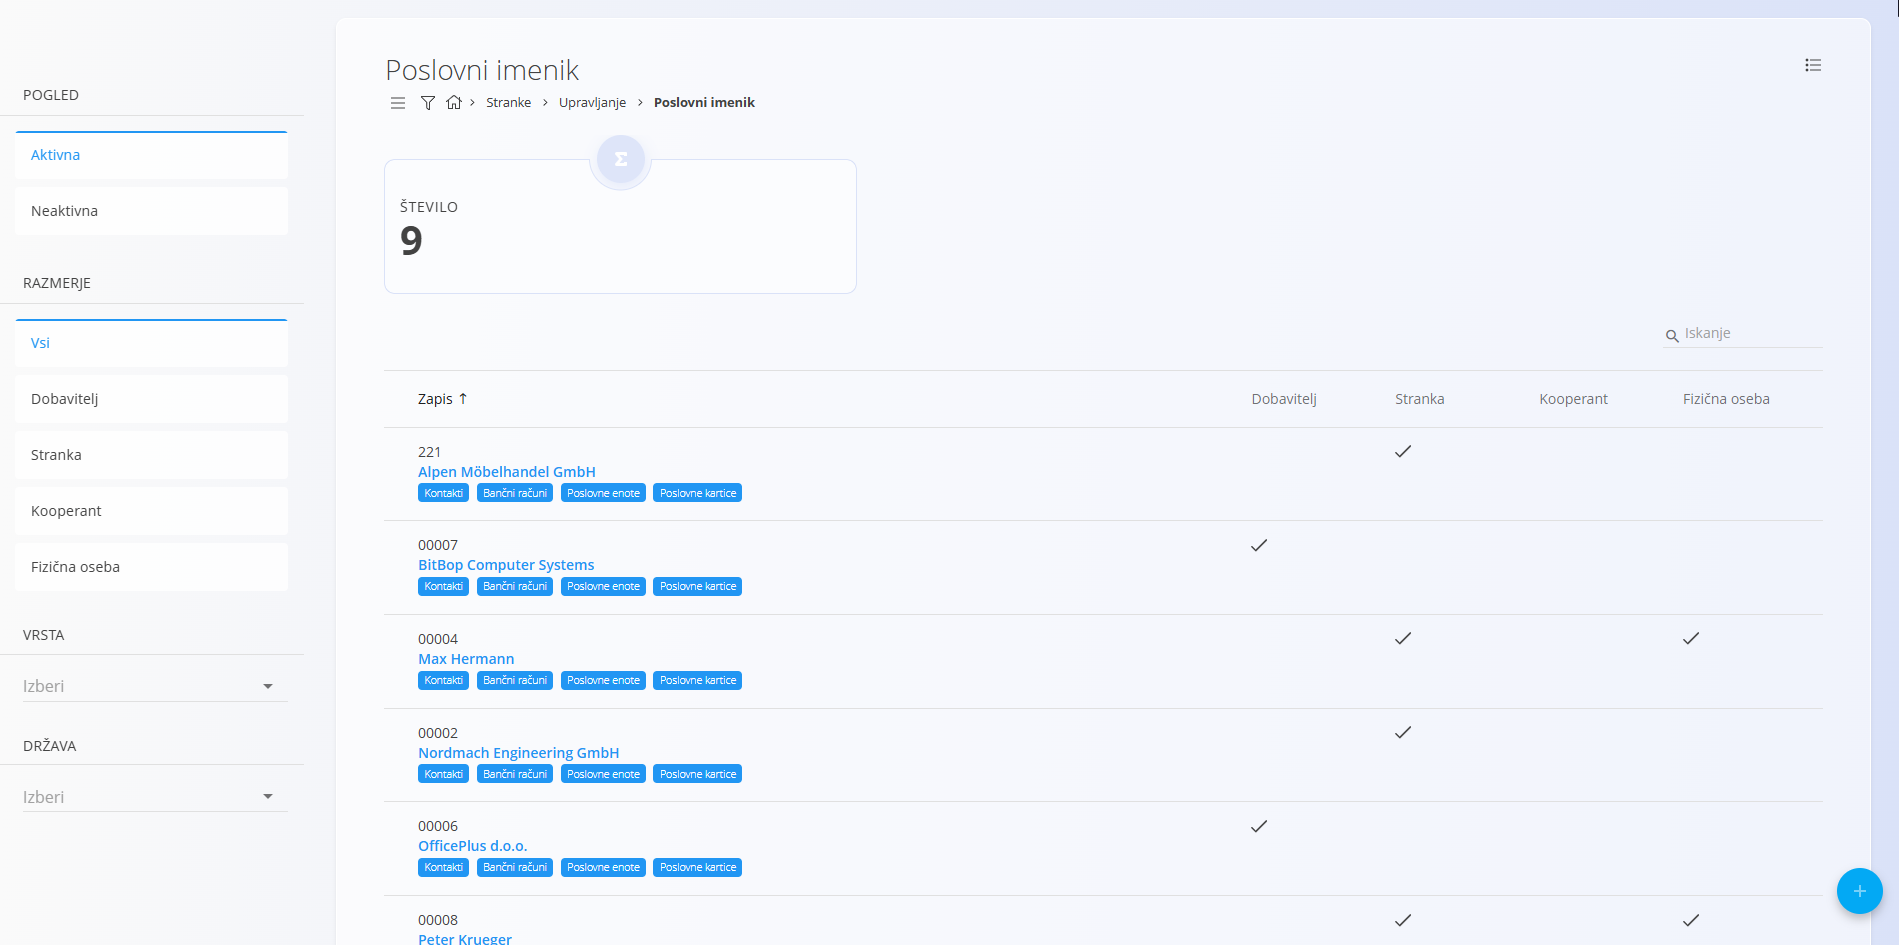
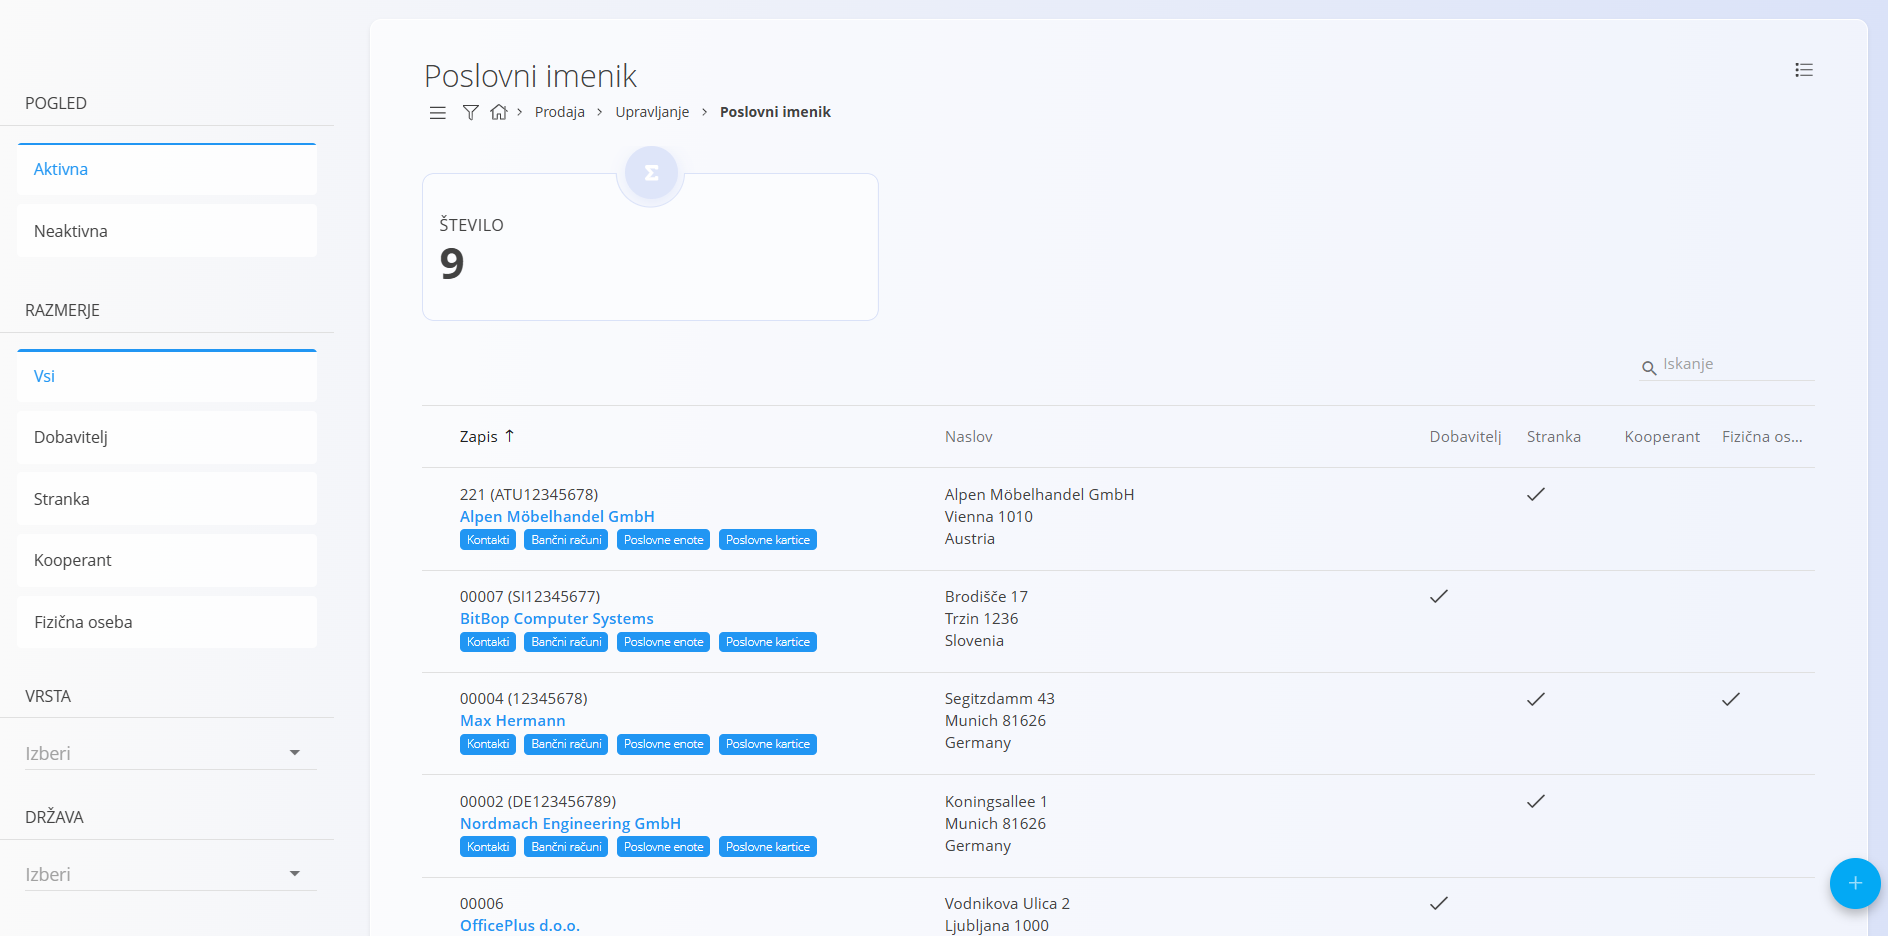
docs(en,sl): update business directory screenshots and mention address

diff --git a/en/Common/Management/BusinessDirectory.md b/en/Common/Management/BusinessDirectory.md
@@ -47,7 +47,7 @@ To open the list, go to **Management / Business directory** in one of the follow
 
 ### List of business directory entries
 
-The user interface contains a list of entries in the business directory.
+The user interface contains a list of entries in the business directory. Each entry shows its number, name, and address.
 
 ![Business Directory](../Images/BusinessDirectoryV2.png "Business Directory")
 

diff --git a/sl/Skupno/Upravljanje/PoslovniImenik.md b/sl/Skupno/Upravljanje/PoslovniImenik.md
@@ -44,7 +44,7 @@ Za odpiranje seznama pojdite v razdelek **Upravljanje / Poslovni imenik** v nasl
 ## Upravljanje
 
 ### Seznam vnosov v poslovnem imeniku
-Uporabniški vmesnik vsebuje seznam vnosov v Poslovnem imeniku.
+Uporabniški vmesnik vsebuje seznam vnosov v Poslovnem imeniku. Vsak vnos prikazuje številko, ime in naslov.
 
 ![Poslovni imenik](../Images/BusinessDirectorySL.png "Poslovni imenik")
 
